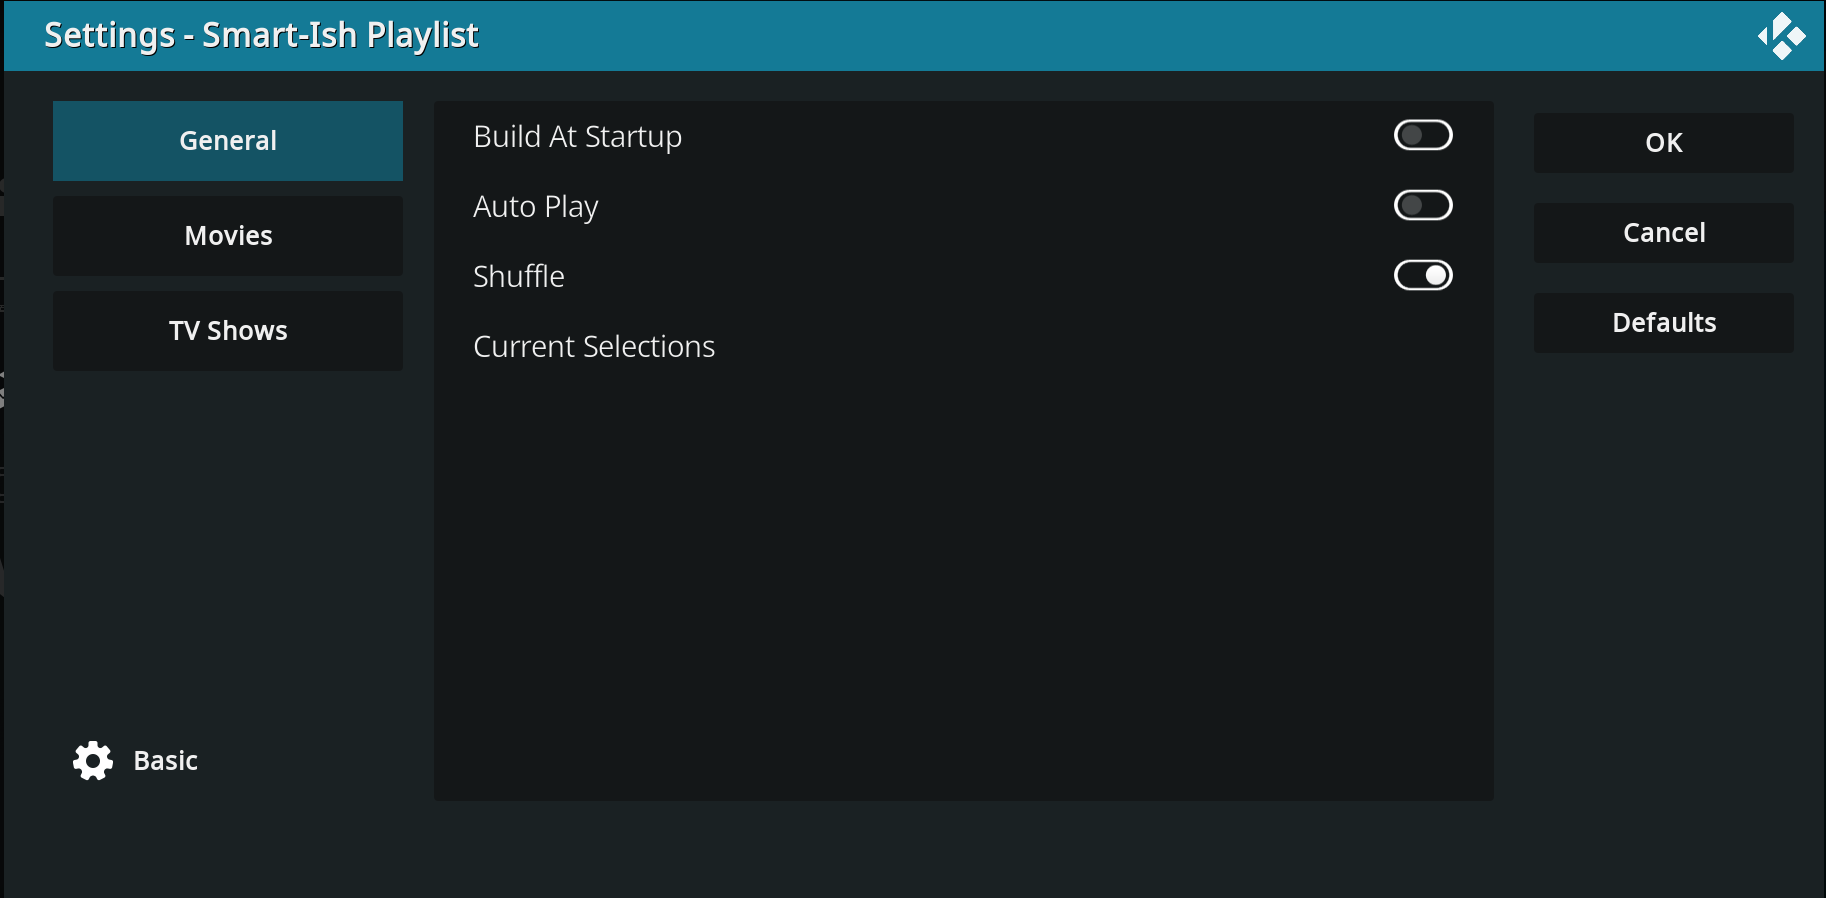
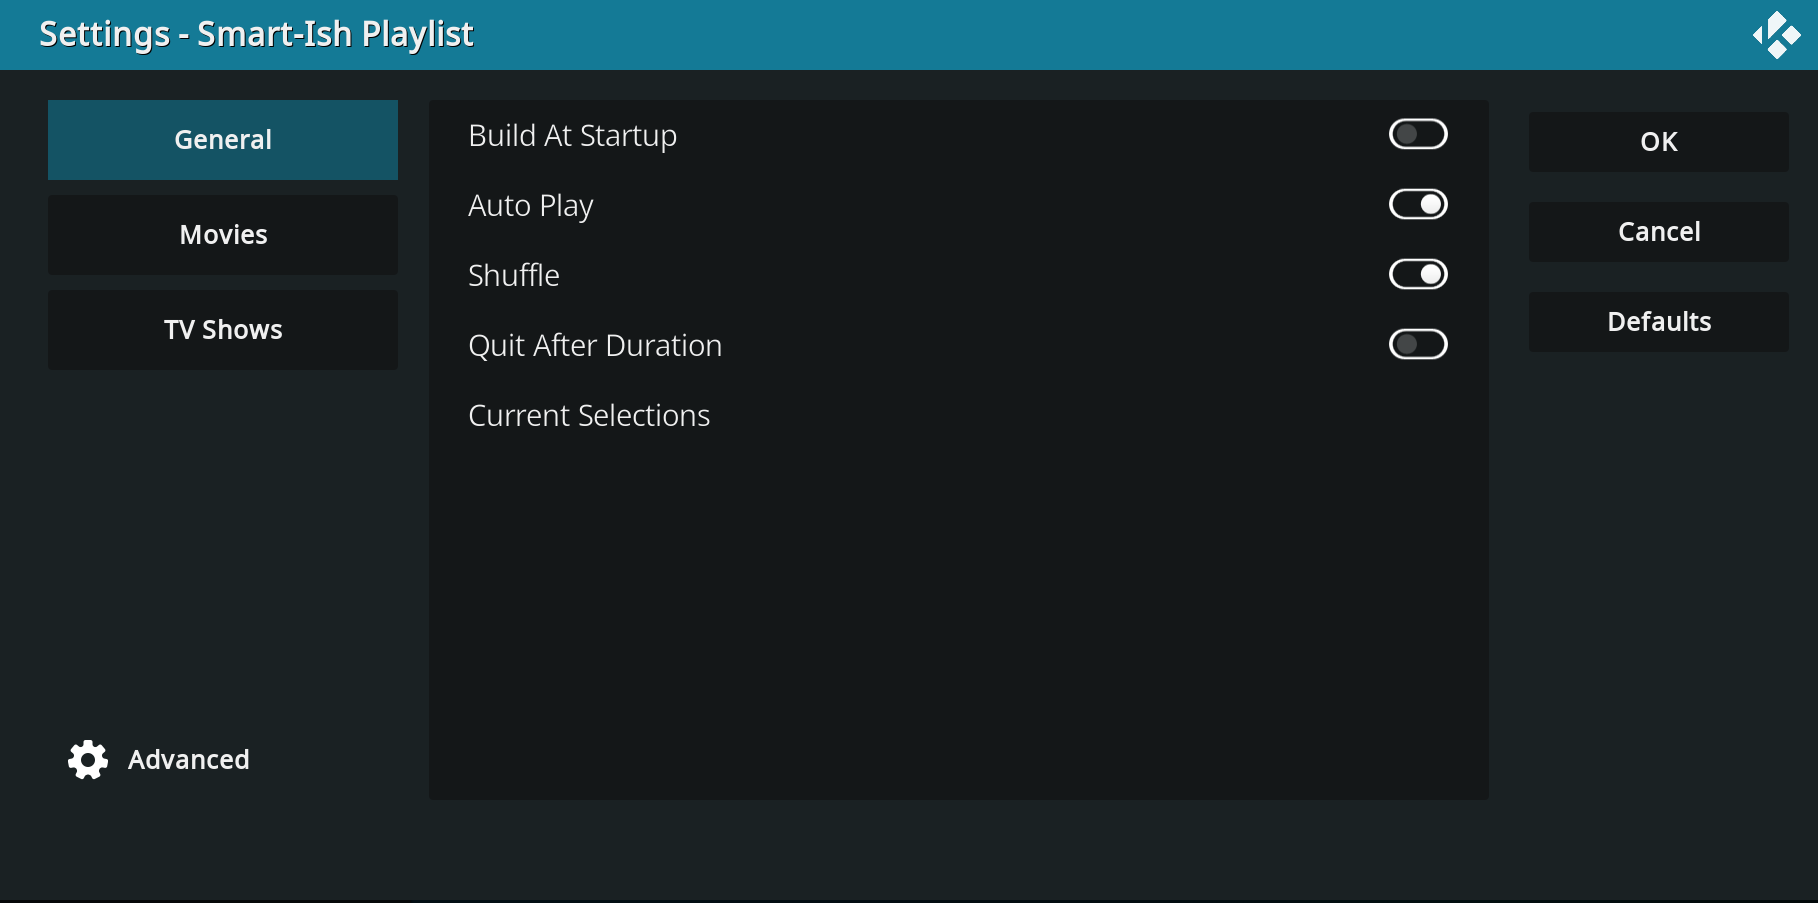
0.2.1 Auto Quit Feature

diff --git a/script.video.smartishplaylist/resources/lib/playlist_functions.py b/script.video.smartishplaylist/resources/lib/playlist_functions.py
@@ -4,6 +4,7 @@ import xbmcgui
 import json
 import random
 from typing import Literal
+import threading
 
 from resources.lib.queries import list_of_all_tv_shows, list_all_movies, list_of_episodes_by_show_id, kodi_rpc
 from resources.lib.logger import write_log
@@ -172,3 +173,54 @@ def start_playlist(playlist_id: int = 1, shuffle: bool = True) -> None:
     }, return_result=False)
 
 
+def quit_kodi_after(minutes: int) -> None:
+    """Stop playback if applicable and quit kodi after specified number of minutes"""
+
+    def _worker():
+        write_log(f"Kodi will quit in {minutes} minutes")
+
+        total_ms = minutes * 60 * 1000
+        elapsed = 0
+        step = 500
+
+        while elapsed < total_ms and not xbmc.Monitor().abortRequested():
+            # Sleep every half second
+            xbmc.sleep(step)
+            elapsed += step
+
+        if xbmc.Monitor().abortRequested():
+            return
+
+        data = kodi_rpc({
+            "jsonrpc": "2.0",
+            "method": "Player.GetActivePlayers",
+            "id": 10
+        })
+
+        player_id = None
+        if data and isinstance(data.get("result"), list):
+            for player in data["result"]:
+                if player.get("type") == "video":
+                    player_id = player.get("playerid")
+                    break
+
+        # Stop playback if applicable
+        if player_id is not None:
+            write_log("Stopping video playback before quit")
+            kodi_rpc({
+                "jsonrpc": "2.0",
+                "method": "Player.Stop",
+                "params": {"playerid": player_id},
+                "id": 11
+            }, return_result=False)
+
+            xbmc.sleep(1000)
+
+        write_log("Quitting Kodi")
+        kodi_rpc({
+            "jsonrpc": "2.0",
+            "method": "Application.Quit",
+            "id": 12
+        }, return_result=False)
+
+    threading.Thread(target=_worker, daemon=True).start()

diff --git a/script.video.smartishplaylist/default.py b/script.video.smartishplaylist/default.py
@@ -1,11 +1,12 @@
 import sys
+import json
 
 import xbmcaddon
 import xbmcgui
 
 from resources.lib.logger import write_log
 from resources.lib.selections import select_media, display_selections
-from resources.lib.playlist_functions import build_playlist, gather_media_info, start_playlist
+from resources.lib.playlist_functions import build_playlist, gather_media_info, start_playlist, quit_kodi_after
 
 all_args = sys.argv
 
@@ -17,6 +18,7 @@ def build():
 
     autoplay = addon.getSettingBool("auto_play")
     shuffle = addon.getSettingBool("shuffle")
+    auto_quit = addon.getSettingBool("auto_quit")
 
     write_log(f"Building, Autoplay: {autoplay} Shuffle: {shuffle}")
 
@@ -33,6 +35,10 @@ def build():
         if autoplay:
             start_playlist(playlist_id=1, shuffle=shuffle)
             write_log("Playback started")
+
+            if auto_quit:
+                auto_quit_minutes = json.loads(addon.getSetting("auto_quit_minutes"))
+                quit_kodi_after(auto_quit_minutes)
 
     else:
         xbmcgui.Dialog().notification("Stopped", "Playlist build incomplete", xbmcgui.NOTIFICATION_ERROR, 3000)

diff --git a/README.md b/README.md
@@ -2,7 +2,10 @@
 
 ---
 
-A quick and dirty add-on for Kodi that builds a random playlist based on the media criteria provided for the script.
+A quick and dirty add-on for Kodi that builds a random playlist based on the media criteria provided for the script.  
+Currently, Movies and TV Shows are supported.  
+The playlist will include an arbitrary number of randomly selected movies from the given subset.
+The playlist will also include randomly selected episodes from each designated show while allowing for exclusions of specific episodes.
 
 Can be run on demand or configured to run once at startup.
 
@@ -12,6 +15,7 @@ Can be run on demand or configured to run once at startup.
 ---
 - "Build At Startup" will generate the playlist upon starting Kodi.
 - "Auto Play" and "Shuffle" to play and shuffle automatically once built.
+- "Quit After Duration" will exit Kodi after the number of specified minutes.  Applicable only if Auto Play is enabled. For more advanced timers and settings, it's recommended to use [timers](https://github.com/Heckie75/kodi-addon-timers).
 - "Current Selections" display JSON data of the currently designated media.
 
 ![My plot](menu_images/general.png)

diff --git a/CHANGELOG.md b/CHANGELOG.md
@@ -1,3 +1,9 @@
+#### 0.2.1
+
+---
+
+- Addition of Auto Quit
+
 #### 0.2
 
 ---
